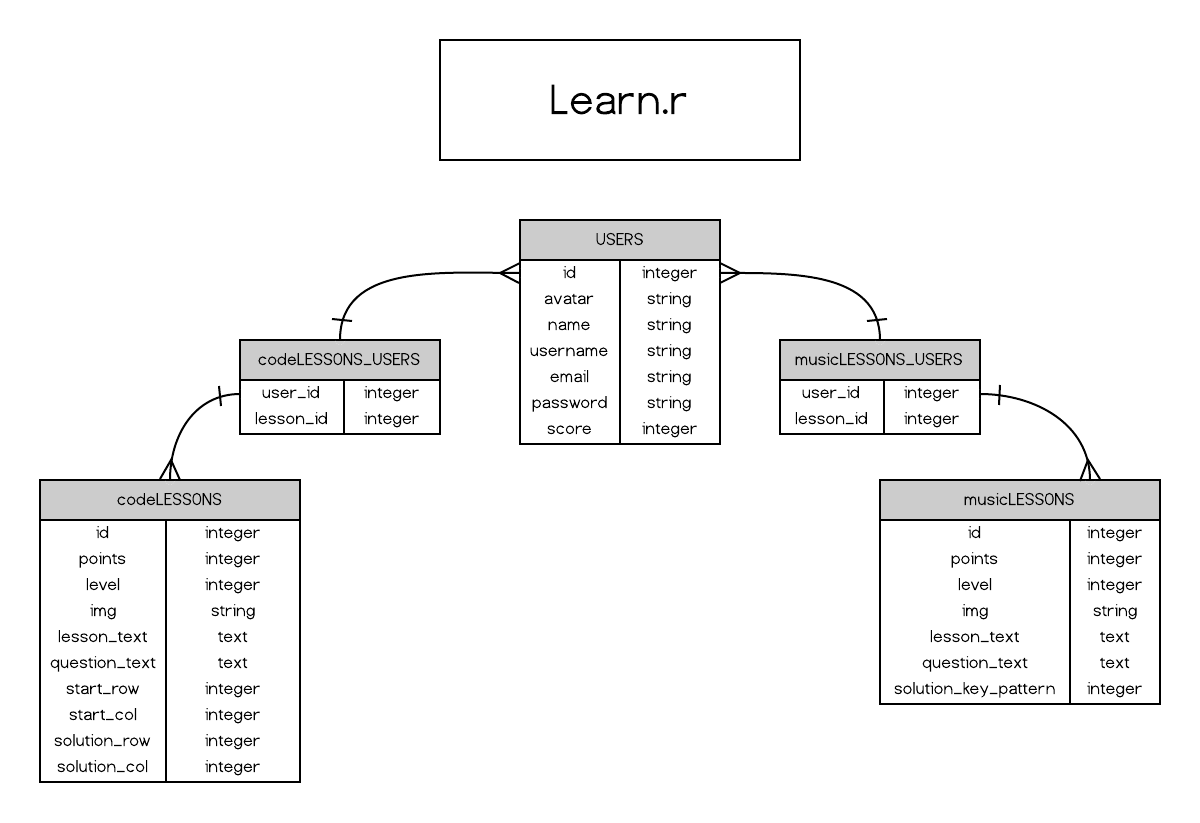
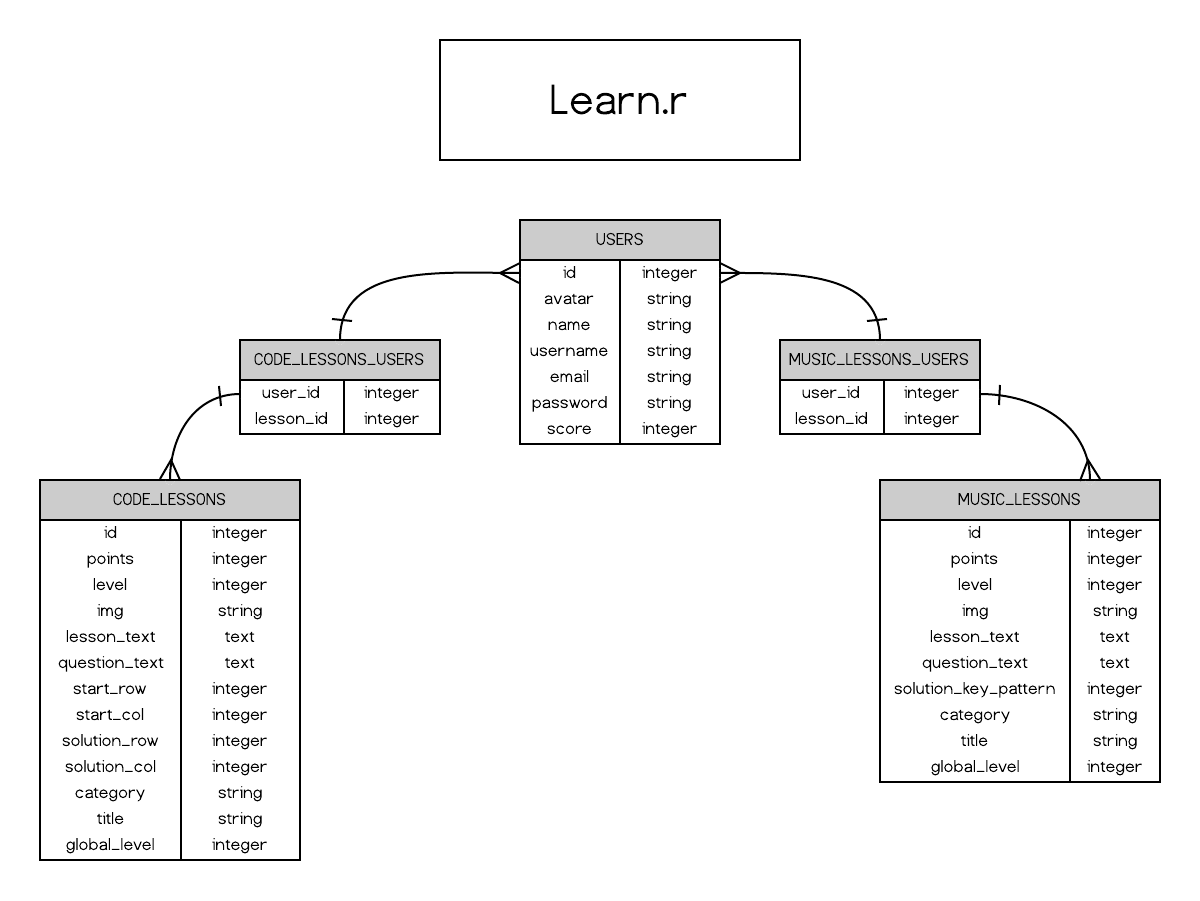
add updated erd

Changed region(s): [[0.0308, 0.243, 0.9867, 0.9721], [0.37, 0.0304, 0.6783, 0.0608], [0.4625, 0.0911, 0.5858, 0.1519]]

diff --git a/README.md b/README.md
@@ -1,0 +1,26 @@
+#LearnR
+
+A site for young students to learn code concepts, music, and more.  At our core we want LearnR to create an fun, playful environment that introduces you children to fundamental concepts that we use throughout our life.  Some of these concepts include general logic to figuring out fractions, or even comparisions and determining value in things.
+
+----------------
+##Technologies
+
+* Ruby on Rails
+* Javascript
+* jQuery
+* AJAX
+* RSPEC / Capybara / shoulda-matchers
+* Devise
+* Heroku
+* ActionMailer
+
+----------
+##User Stories
+
+https://trello.com/b/cyHEYK2C/learn-r
+
+##ERD
+
+
+
+##Site
